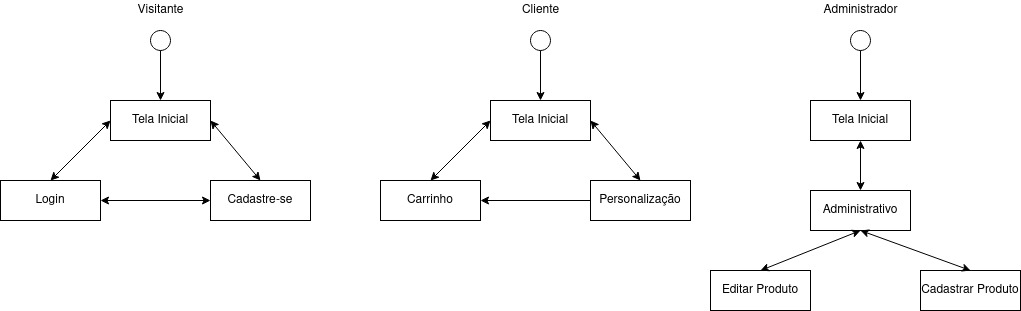
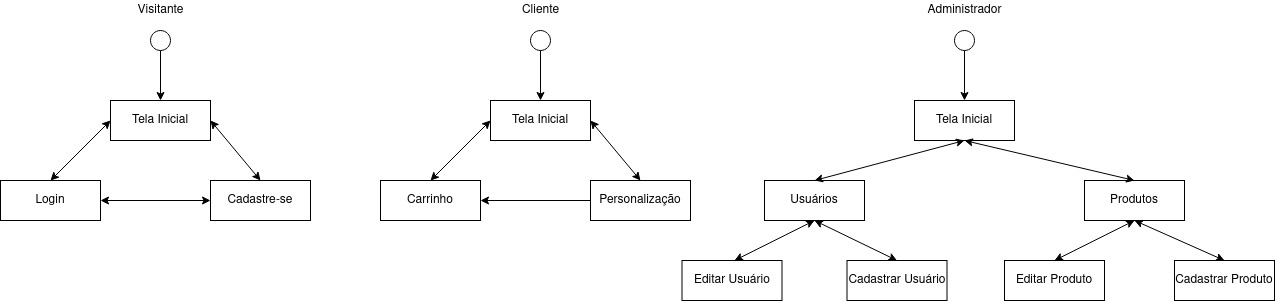
telas de usuario e produto

diff --git a/index.html b/index.html
@@ -12,7 +12,7 @@
     <body>  
         <div id="app">
             <div id="container" class="container">
-                <menu_superior v-bind:paginas='[{nome: "Cadastre-se", caminho: "cadastro.html"}, {nome: "Login", caminho: "login.html"}, {nome: "Usuários", caminho:"admin-usuarios.html"},{nome: "Administrativo", caminho: "admin.html"}, {nome: "Carrinho", caminho: "carrinho.html"}, {nome: "Personalização", caminho: "personalizacao.html"}]'></menu_superior>
+                <menu_superior v-bind:paginas='[{nome: "Cadastre-se", caminho: "cadastro.html"}, {nome: "Login", caminho: "login.html"}, {nome: "Usuários", caminho:"admin-usuarios.html"},{nome: "Produtos", caminho: "admin.html"}, {nome: "Carrinho", caminho: "carrinho.html"}, {nome: "Personalização", caminho: "personalizacao.html"}]'></menu_superior>
                 <input type="text" placeholder="Procure um produto pelo nome"  v-model="produto"/>
 
                 <div id="conteudo" class="session text-center">

diff --git a/README.md b/README.md
@@ -59,9 +59,9 @@ Além disso, através da tela de login, o usuário consegue acessar a tela de ca
 **Tela de cadastro**   
 O cadastro na tela de cadastro é realizado por usuários do tipo cliente. 
 
-**Tela administrativa**  
-Quando um usuário do tipo administrador acessa a plataforma, ele pode acessar a tela administrativa.  
-Na tela administrativa é possível ver uma listagem dos produtos, editá-los e remove-los. Também é possível cadastrar novos produtos.
+**Tela de produtos**  
+Quando um usuário do tipo administrador acessa a plataforma, ele pode acessar a tela de produtos.  
+Na tela de produtos é possível ver uma listagem dos produtos, editá-los e remove-los. Também é possível cadastrar novos produtos.
 
 **Tela de cadastro de produto**  
 Quando um usuário do tipo administrador acessa a plataforma, ele pode acessar a tela de cadastro de produto.  
@@ -70,6 +70,18 @@ Quando um usuário do tipo administrador acessa a plataforma, ele pode acessar a
 **Tela de editar produto**  
 Quando um usuário do tipo administrador acessa a plataforma, ele pode acessar a tela de editar produto.  
 É possível editar as informações de um cone.
+
+**Tela de usuários**  
+Quando um usuário do tipo administrador acessa a plataforma, ele pode acessar a tela de usuários.  
+Na tela de produtos é possível ver uma listagem dos usuários, editá-los e remove-los. Também é possível cadastrar novos usuários.
+
+**Tela de cadastro de usuário**  
+Quando um usuário do tipo administrador acessa a plataforma, ele pode acessar a tela de cadastro de usuário.  
+É possível cadastrar um novo usuário do tipo administrador ou cliente.
+
+**Tela de editar usuário**  
+Quando um usuário do tipo administrador acessa a plataforma, ele pode acessar a tela de editar usuário.  
+É possível editar as informações de um usuário.
 
 **Tela de personalização**  
 Quando um usuário do tipo cliente acessa a plataforma, ele pode acessar a tela de personalização.  
